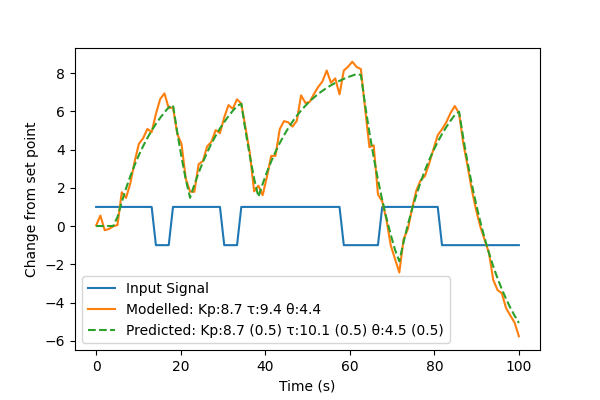
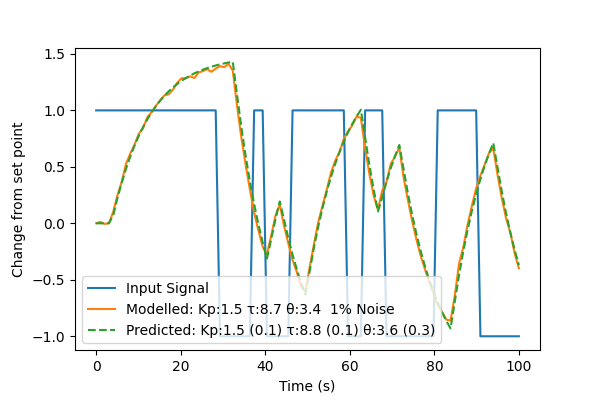
July 09

diff --git a/3_parameter_interface.py b/3_parameter_interface.py
@@ -21,7 +21,7 @@ trainFrac = .7
 
 # Calls the module Signal with the initialization parameters
 # then simulates using the initialized model
-sig = Signal(numTrials,nstep,timelength,trainFrac,stdev=5)
+sig = Signal(numTrials,nstep,timelength,trainFrac,stdev=1)
 #sig.training_simulation(KpRange=[0.75,10.5],tauRange=[0.75,10.5],thetaRange=[0.75,10.5])
 
 """
@@ -36,7 +36,7 @@ trainModel.train_FOPTD(sig,epochs=200)
 xData,yData = sig.simulate_and_preprocess()
 
 # Initialize the models that are saved using the parameters declared above
-predictor = Model(nstep,Modeltype='probability')
+predictor = Model(nstep,Modeltype='regular')
 predictor.load_FOPTD()
 
 # Function to make predictions based off the simulation 

diff --git a/Model.py b/Model.py
@@ -216,7 +216,7 @@ class Model:
                 plt.figure(dpi=100)
                 plt.plot(t,u,label='Input Signal')
                 
-                s1 = ("Modelled: Kp:%.1f τ:%.1f θ:%.1f" % (sig.kps[i],sig.taus[i],sig.thetas[i]))
+                s1 = ("Modelled: Kp:%.1f τ:%.1f θ:%.1f  %i%% Noise" % (sig.kps[i],sig.taus[i],sig.thetas[i],sig.stdev))
                 s2 = ("Predicted: Kp:%.1f (%.1f) τ:%.1f (%.1f) θ:%.1f (%.1f)" % (Kp,Kperror,taup,tauperror,theta,thetaerror))
 
                 plt.plot(t,yTrue, label=s1)
